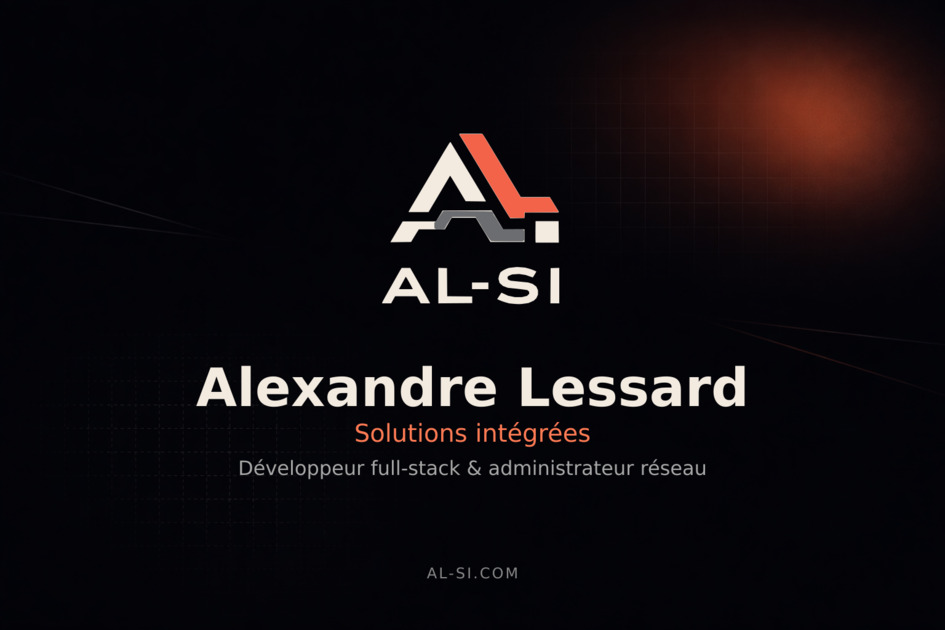
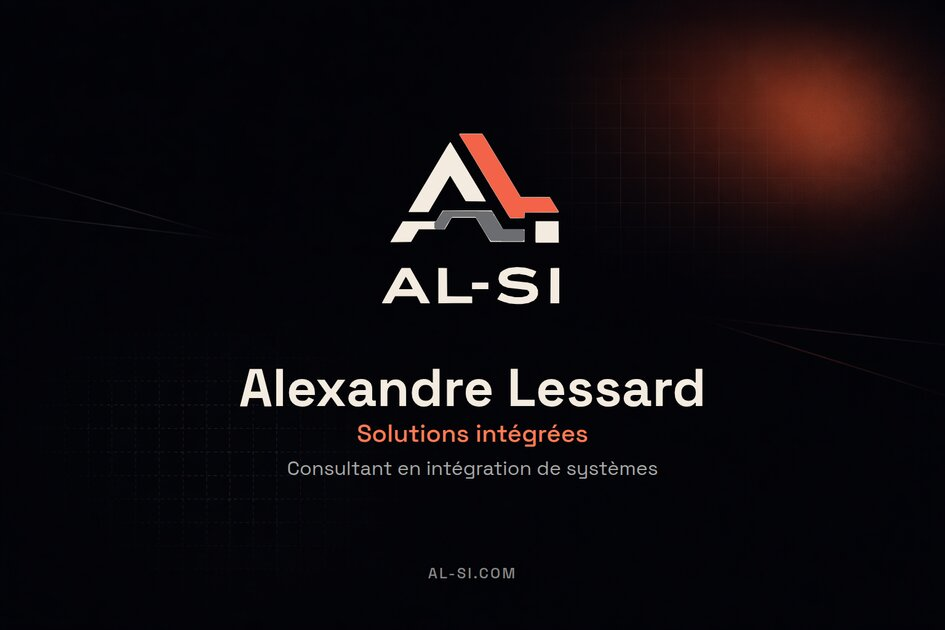
Replace the full-stack developer title in metadata and share card
Page title, descriptions, JSON-LD, manifest, README and the social
share image now read Systems Integration Consultant.

Changed region(s): [[0.2148, 0.573, 0.7979, 0.754], [0.4603, 0.9048, 0.5524, 0.9349]]

diff --git a/pages/+Head.jsx b/pages/+Head.jsx
@@ -5,8 +5,8 @@ import { barePath as toBarePath, localePath } from '../src/urls.js';
 const SITE = 'https://al-si.com';
 
 const ogDescriptions = {
-  fr: "Concevoir, automatiser, faire évoluer. J'aide les entreprises à structurer leurs opérations et à lancer leurs idées — du cadrage initial à la mise en production.",
-  en: 'Design, automate, evolve. I help businesses structure their operations and launch their ideas — from initial scoping to production.',
+  fr: "Quand votre projet ne rentre dans aucune case, c'est là que j'interviens. Intégration de systèmes, reprise et modernisation, plateformes sur mesure — jusqu'en production.",
+  en: "When your project doesn't fit any mold, that's where I come in. Systems integration, takeover and modernization, custom platforms — all the way to production.",
 };
 
 export default function Head() {
@@ -25,8 +25,8 @@ export default function Head() {
   const title = article
     ? `${article.title} — AL-SI`
     : locale === 'en'
-      ? 'Alexandre Lessard – Integrated solutions | Full-stack developer | AL-SI'
-      : 'Alexandre Lessard – Solutions intégrées | Développeur full-stack | AL-SI';
+      ? 'Alexandre Lessard – Systems Integration Consultant | AL-SI'
+      : 'Alexandre Lessard – Consultant en intégration de systèmes | AL-SI';
   const description = article?.excerpt || ogDescriptions[locale] || ogDescriptions.fr;
   // The error page is pre-rendered as a single /404.html served on any unknown
   // URL, so a canonical or hreflang pointing at /fr/404 would advertise a page
@@ -101,12 +101,12 @@ export default function Head() {
             image: `${SITE}/share-card.jpg`,
             description:
               locale === 'en'
-                ? 'I design, automate and evolve custom web applications for businesses that want to save time, structure their operations or launch a new product.'
-                : 'Je conçois, automatise et fais évoluer des applications web sur mesure pour les entreprises qui veulent gagner du temps, structurer leurs opérations ou lancer un nouveau produit.',
+                ? "Systems integration consultant: connecting software that doesn't talk to each other, taking over and modernizing existing systems, building custom platforms, all the way to production."
+                : "Consultant en intégration de systèmes : brancher ensemble des logiciels qui ne se parlent pas, reprendre et moderniser des systèmes existants, bâtir des plateformes sur mesure, jusqu'en production.",
             founder: {
               '@type': 'Person',
               name: 'Alexandre Lessard',
-              jobTitle: locale === 'en' ? 'Full-stack Developer' : 'Développeur full-stack',
+              jobTitle: locale === 'en' ? 'Systems Integration Consultant' : 'Consultant en intégration de systèmes',
               knowsLanguage: ['fr', 'en'],
             },
             address: { '@type': 'PostalAddress', addressRegion: 'QC', addressCountry: 'CA' },
@@ -116,6 +116,10 @@ export default function Head() {
               'https://www.facebook.com/profile.php?id=100094510380507',
             ],
             knowsAbout: [
+              locale === 'en' ? 'Systems integration' : 'Intégration de systèmes',
+              locale === 'en' ? 'Legacy system modernization' : 'Modernisation de systèmes',
+              locale === 'en' ? 'Disaster recovery' : 'Reprise après sinistre',
+              locale === 'en' ? 'Local AI' : 'IA locale',
               'React',
               'Python',
               'Node.js',

diff --git a/pages/+description.js b/pages/+description.js
@@ -1,6 +1,6 @@
 const descriptions = {
-  fr: 'Je conçois, automatise et fais évoluer des applications web sur mesure pour les entreprises qui veulent gagner du temps, structurer leurs opérations ou lancer un nouveau produit. Du cadrage à la mise en production.',
-  en: 'I design, automate and evolve custom web applications for businesses that want to save time, structure their operations or launch a new product. From scoping to production.',
+  fr: "Consultant en intégration de systèmes. On m'appelle quand vos logiciels ne se parlent pas, quand une plateforme doit évoluer sans documentation ou quand la solution n'existe pas sur le marché. Du cadrage à la mise en production.",
+  en: "Systems integration consultant. I get the call when your systems don't talk to each other, when a platform has to evolve without documentation, or when the solution doesn't exist on the market. From scoping to production.",
 };
 
 export default (pageContext) => descriptions[pageContext.locale] || descriptions.fr;

diff --git a/pages/+title.js b/pages/+title.js
@@ -1,6 +1,6 @@
 const titles = {
-  fr: 'Alexandre Lessard – Solutions intégrées | Développeur full-stack | AL-SI',
-  en: 'Alexandre Lessard – Integrated Solutions | Full-stack Developer | AL-SI',
+  fr: 'Alexandre Lessard – Consultant en intégration de systèmes | AL-SI',
+  en: 'Alexandre Lessard – Systems Integration Consultant | AL-SI',
 };
 
 export default (pageContext) => titles[pageContext.locale] || titles.fr;

diff --git a/README.md b/README.md
@@ -1,6 +1,6 @@
 # al-si.com
 
-Personal website and portfolio of Alexandre Lessard, full-stack developer.
+Personal website and portfolio of Alexandre Lessard, systems integration consultant.
 
 **[al-si.com](https://al-si.com)**
 
